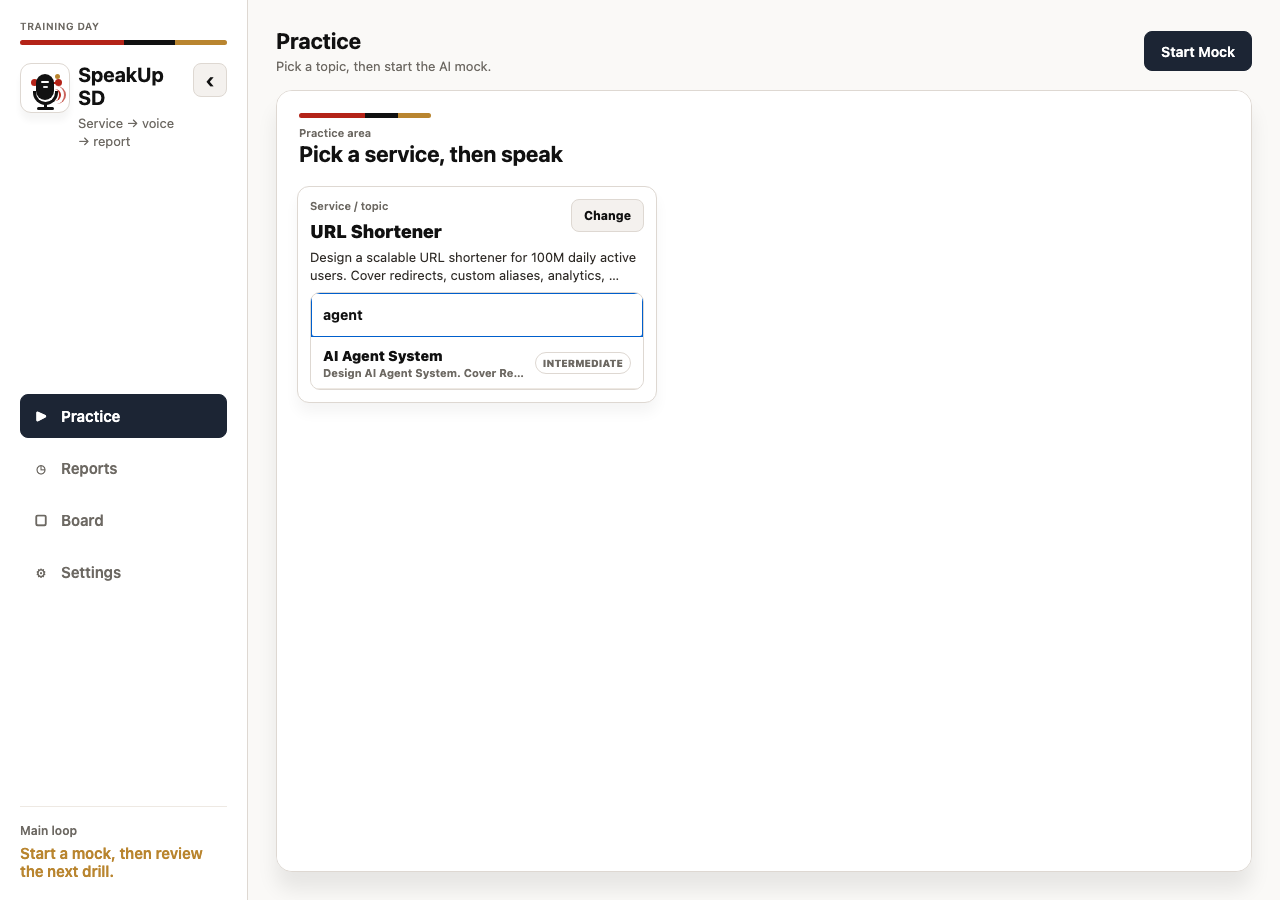
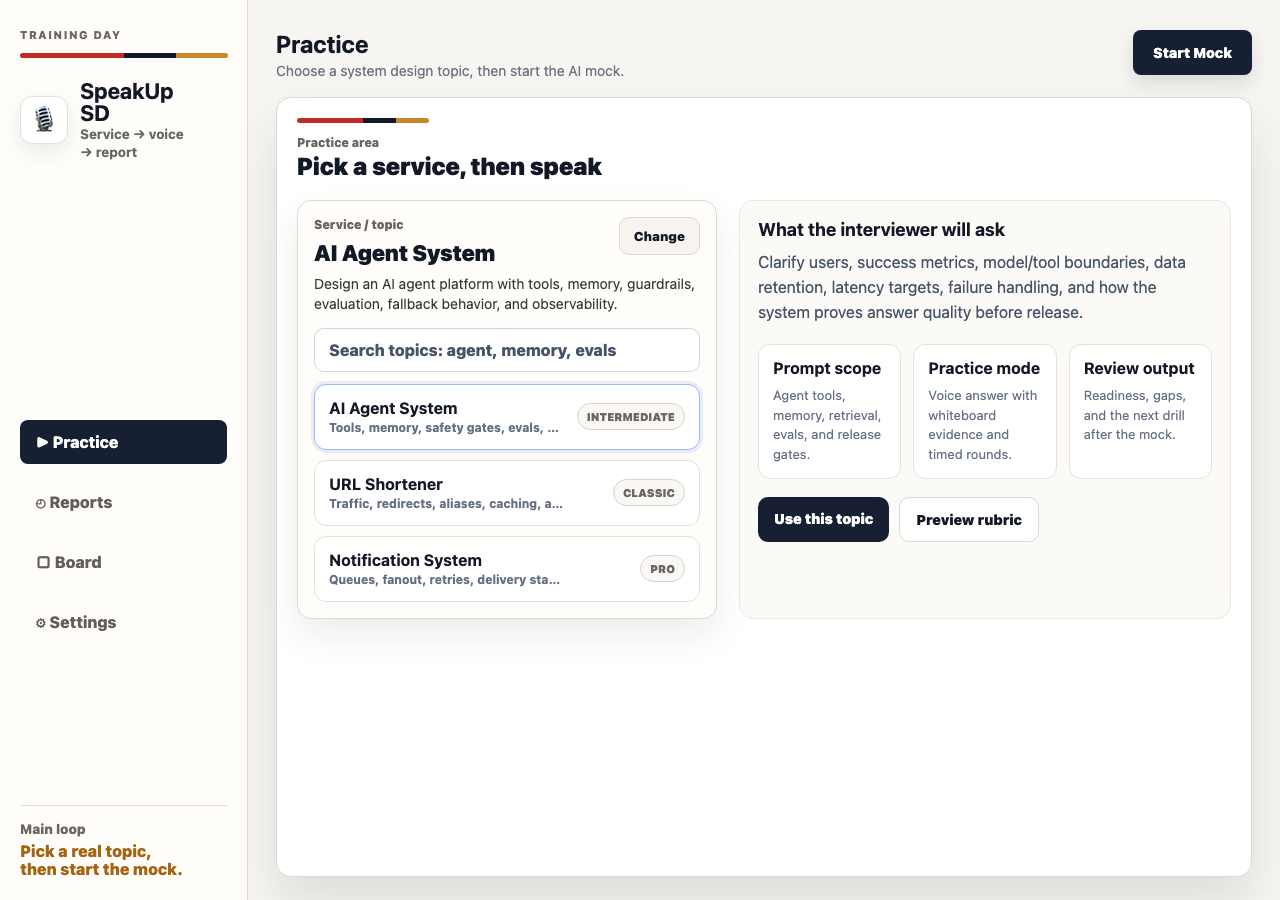
Replace broken SpeakUp SD topic visual

diff --git a/index.html b/index.html
@@ -48,10 +48,10 @@
         </div>
 
         <figure class="hero-media">
-          <img src="./assets/product-flow.gif" alt="Animated SpeakUp SD product flow using real product screens." />
+          <img src="./assets/product-question-bank.png" alt="Clean SpeakUp SD topic selection screen for AI Agent System practice." />
           <figcaption>
-            <strong>Question bank -> AI interview -> consent -> report</strong>
-            <span>Actual product captures from the practice workflow.</span>
+            <strong>Pick a real system design topic before the mock</strong>
+            <span>Stable product capture showing topic selection and interview scope.</span>
           </figcaption>
         </figure>
       </section>

diff --git a/README.md b/README.md
@@ -28,7 +28,6 @@ SpeakUp SD helps candidates turn interview preparation into a repeatable loop: c
 ├── styles.css              # Responsive visual system for the showcase
 └── assets/
     ├── showcase-preview.png
-    ├── product-flow.gif
     ├── product-question-bank.png
     ├── product-interview-active.png
     ├── product-recording-consent.png